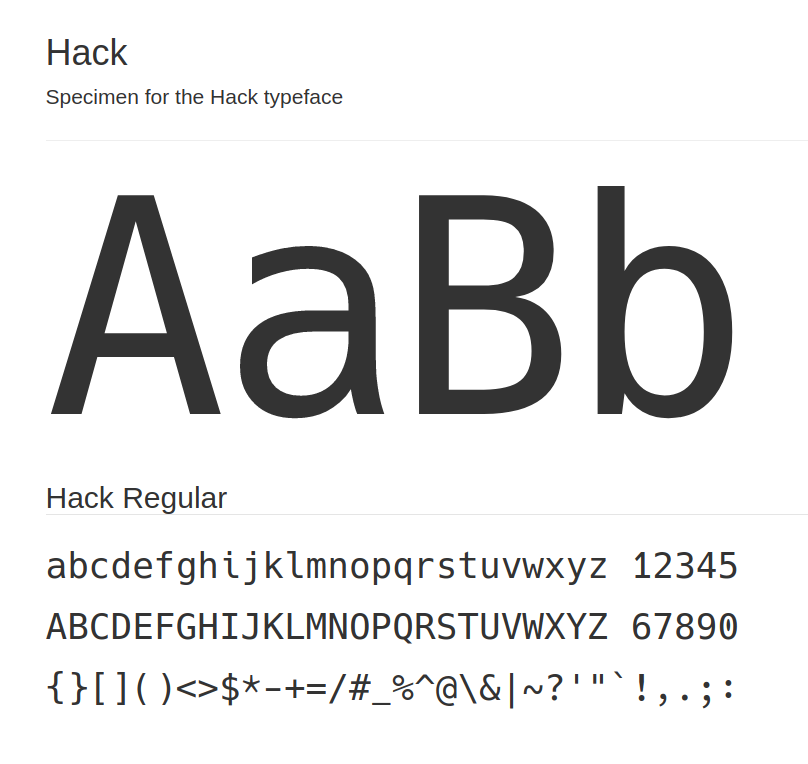
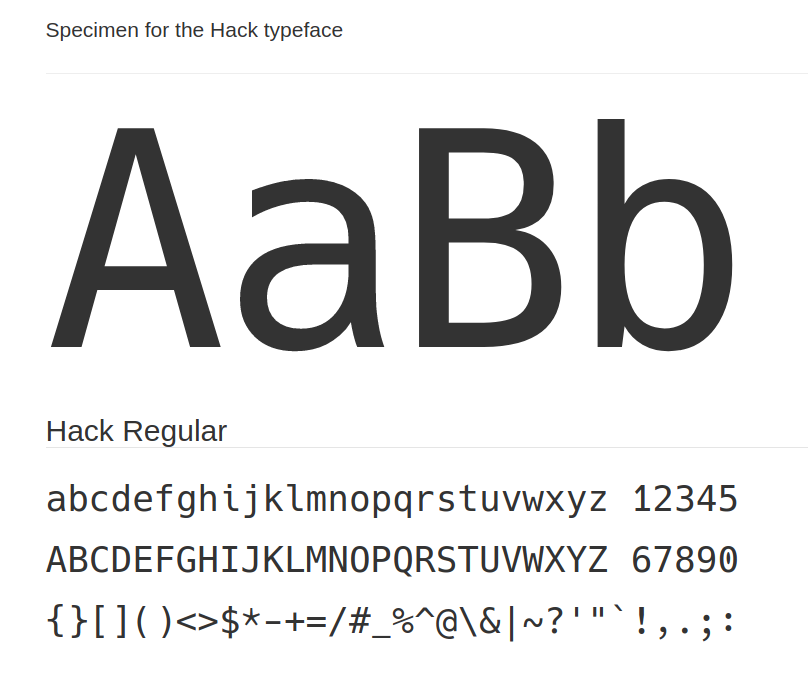
Add Basquiat entry. Tweak hac font sample.

diff --git a/2020-04-20.md b/2020-04-20.md
@@ -47,17 +47,30 @@ Last week I updated my Ubuntu to **19.10** and in the process seem to have lost 
 
 [Hack](https://sourcefoundry.org/hack/) - I'm currently using Hack Regular 10
 
-![Hack font](imgs/2020-04-20/hack-font.png)
+![Hack font](imgs/2020-04-20/hack-font.png?1)
 
 
 I honestly love ❤  both fonts so I'm kind of constantly switching between them :-).
 
 
+## ◻ Some artists I would like to explore
+
+While taking a course in Domestika the instructor mentioned a couple of artists I would like to explore.
+
+- Power Paola: Colombian comic book artist. [[Blogpost link]](http://powerpaola.blogspot.com/) [[Instagram]](https://www.instagram.com/powerpaola)
+- Jean-Michel Basquiat - was an American artist of Haitian and Puerto Rican descent. Basquiat first achieved fame as part of SAMO, an informal graffiti duo who wrote enigmatic epigrams in the cultural hotbed of the Lower East Side of Manhattan during the late 1970s, where rap, punk, and street art coalesced into early hip-hop music culture. By the 1980s, his neo-expressionist paintings were being exhibited in galleries and museums internationally. The Whitney Museum of American Art held a retrospective of his art in 1992. [[Wikipedia article]](https://en.wikipedia.org/wiki/Jean-Michel_Basquiat)
+
+![Basquiat - 1](imgs/2020-04-20/basquiat-01.jpg?1)
+![Basquiat - 2](imgs/2020-04-20/basquiat-02.jpg)
+![Basquiat - 3](imgs/2020-04-20/basquiat-03.jpg)
+![Basquiat - 4](imgs/2020-04-20/basquiat-04.jpg)
+![Basquiat - 4](imgs/2020-04-20/basquiat-05.jpg)
+
 ## ◻ Exploring Calvin and Hobbes: An Exhibition Catalogue
 
 ![Exploring Calvin and Hobbes](imgs/2020-04-20/ecah-00.png)
 
-Enjoy this beautiful companion book to the extensive Exploring Calvin and Hobbes exhibition at the Billy Ireland Cartoon Library. Includes an in-depth, original, and lengthy interview with Bill Watterson. [[Book in Amazon]](https://www.amazon.com/-/es/Bill-Watterson/dp/1449460364)
+Calvin and Hobbes is unquestionably one of the most popular comic strips of all time. The imaginative world of a boy and his real-only-to-him tiger was first syndicated in 1985 and appeared in more than 2,400 newspapers when Bill Watterson retired on December 31, 1995. Exploring Calvin and Hobbes contains never-before-seen early versions of the character and a new in-depth interview with Bill Watterson. [[Book in Amazon]](https://www.amazon.com/-/es/Bill-Watterson/dp/1449460364)
 
 ![Exploring Calvin and Hobbes - 01](imgs/2020-04-20/ecah-01.jpg)
 ![Exploring Calvin and Hobbes - 02](imgs/2020-04-20/ecah-02.jpg)
